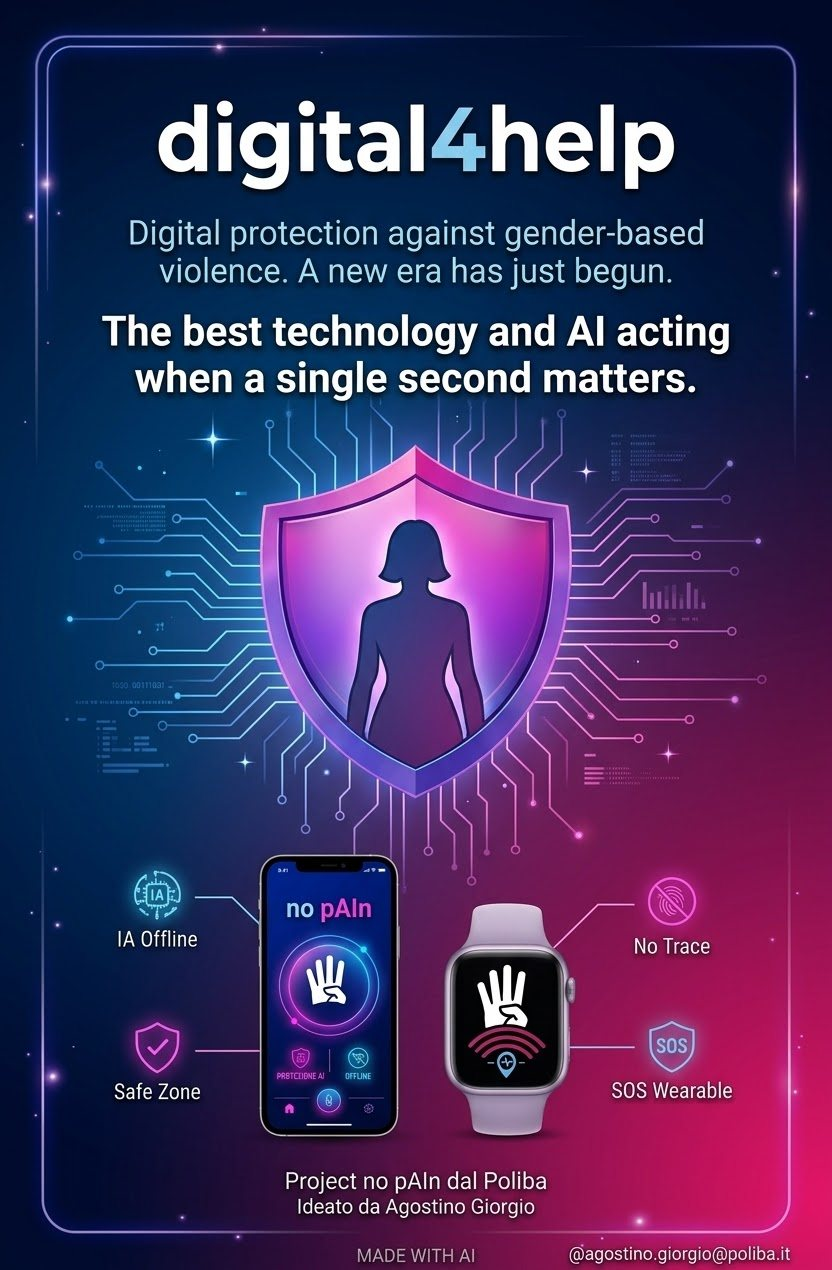
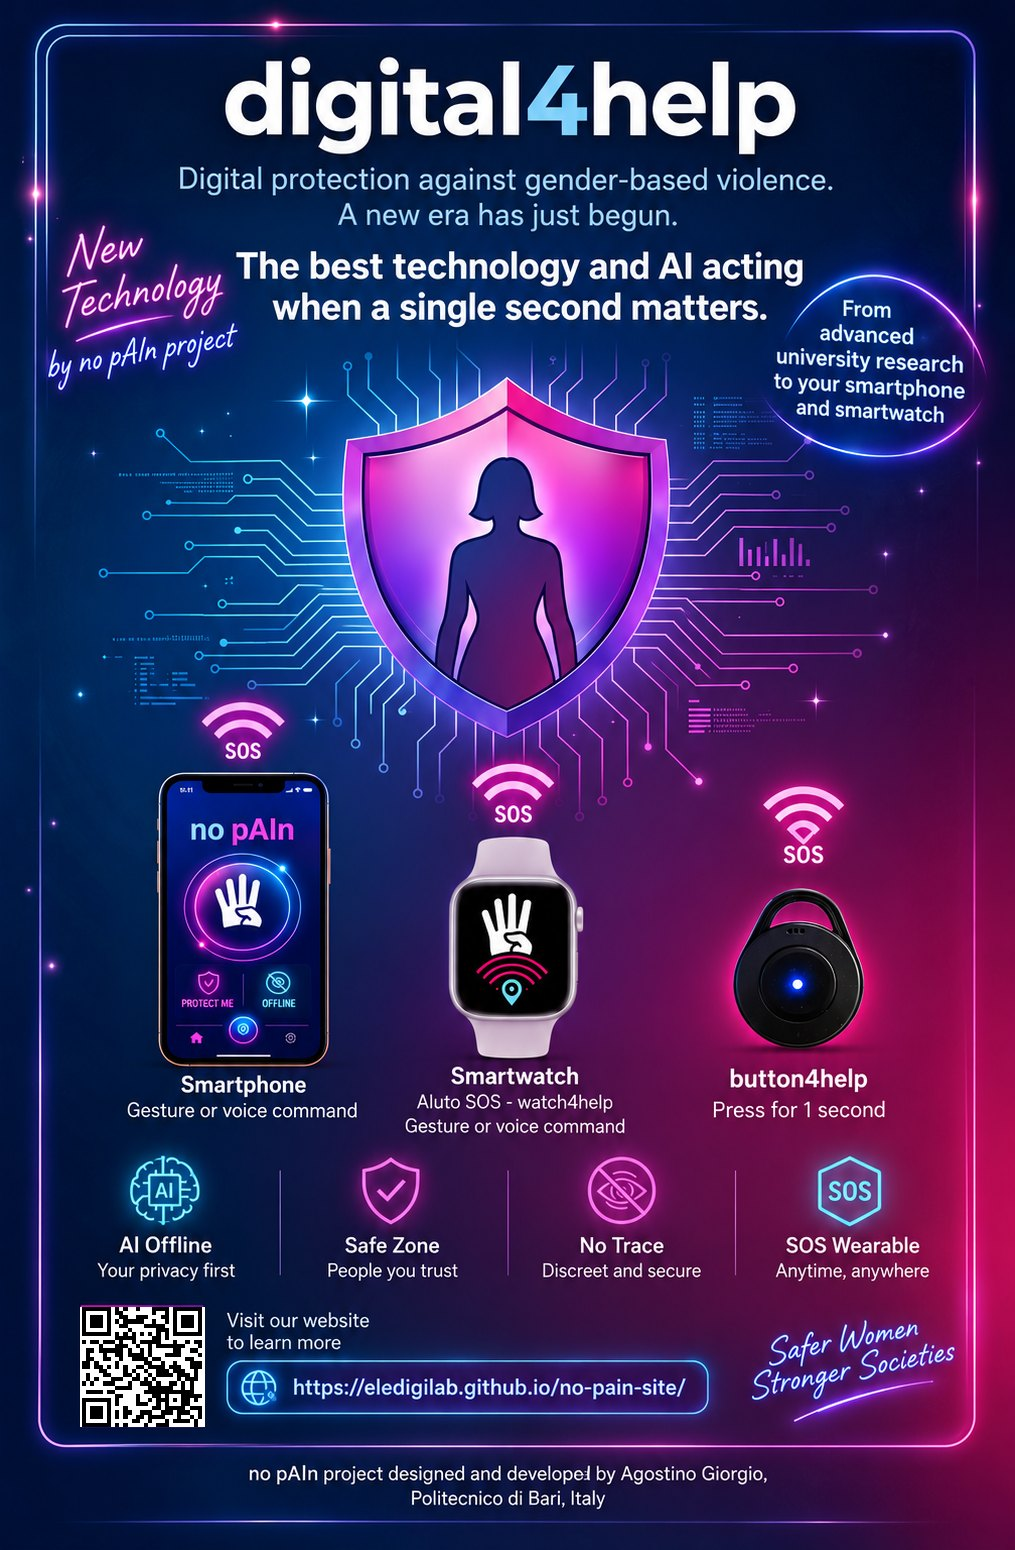
modifica immagini

diff --git a/index.html b/index.html
@@ -30,7 +30,7 @@
 <link rel="preconnect" href="https://fonts.googleapis.com">
 <link rel="preconnect" href="https://fonts.gstatic.com" crossorigin>
 <link rel="stylesheet" href="https://fonts.googleapis.com/css2?family=Atkinson+Hyperlegible:wght@400;700&amp;family=Familjen+Grotesk:wght@500;600;700&amp;family=IBM+Plex+Mono:wght@400;500&amp;display=swap">
-<link rel="stylesheet" href="style.css?v=20260917l">
+<link rel="stylesheet" href="style.css?v=20260918a">
 </head>
 <body>
 
@@ -79,8 +79,8 @@
 <section class="hero">
   <div class="wrap">
     <div class="hero-copy">
-      <h1 class="h1-long">Chiedere aiuto dal tuo dispositivo smartphone o smartwatch senza manovrarli: <span class="hl">si può</span>, con la tecnologia digital4help™ del progetto no pAIn™.</h1>
       <p class="claim"><strong>digital4help™</strong>, la nuova era della tutela digitale: dai laboratori di ricerca universitaria direttamente nei tuoi dispositivi.</p>
+      <h1 class="h1-long">Chiedere aiuto dal tuo dispositivo smartphone o smartwatch senza manovrarli: <span class="hl">si può</span>, con la tecnologia digital4help™ del progetto no pAIn™.</h1>
       <p class="lede">no pAIn™ è un ecosistema di app e dispositivi per la prevenzione della violenza di genere. Con una parola, un tocco o un pulsante, avvisa subito due persone di fiducia con la tua posizione: messaggi e telefonate partono da soli.</p>
       <div class="btns">
         <a class="btn primary" href="prodotti.html">Scegli la tua app <span class="arr">→</span></a>
@@ -90,8 +90,8 @@
       <p class="byline">Progetto ideato e sviluppato dal <strong>Prof. Ing. Agostino Giorgio</strong><br>Docente del Politecnico di Bari</p>
     </div>
     <figure class="media hero-poster">
-      <div class="frame-media"><span class="kind">Locandina</span><a class="zoom" href="assets/locandina-digital4help.jpg"><img src="assets/locandina-digital4help.jpg" width="832" height="1270" alt="Locandina digital4help: Digital protection against gender-based violence. A new era has just begun. Uno scudo con una figura femminile al centro di circuiti luminosi, sopra uno smartphone con l'app no pAIn e uno smartwatch con il segnale della mano per chiedere aiuto; intorno le scritte IA Offline, Safe Zone, No Trace, SOS Wearable."></a></div>
-      <figcaption><strong>digital4help™: Digital protection against gender-based violence</strong>La locandina del progetto, in inglese.</figcaption>
+      <div class="frame-media"><span class="kind">Locandina</span><a class="zoom" href="assets/locandina-digital4help.jpg"><img src="assets/locandina-digital4help.jpg" width="1015" height="1550" alt="Locandina digital4help: protezione digitale contro la violenza di genere, una nuova era è appena cominciata. Uno scudo con una figura femminile al centro di circuiti luminosi e, sotto, i tre modi per chiedere aiuto: smartphone con gesto o comando vocale, smartwatch AIuto SOS watch4help e pulsante button4help premuto per un secondo; in basso IA offline, Safe Zone, No Trace, SOS indossabile e il codice QR del sito."></a></div>
+      <figcaption><strong>digital4help™: la tecnologia che chiede aiuto per te</strong>Smartphone, smartwatch e pulsante: i tre modi per far partire l'allarme. Locandina in inglese.</figcaption>
     </figure>
   </div>
 </section>
@@ -518,6 +518,6 @@
   </div>
 </footer>
 
-<script src="site.js?v=20260917l"></script>
+<script src="site.js?v=20260918a"></script>
 </body>
 </html>

diff --git a/_strumenti/pagine/index.html b/_strumenti/pagine/index.html
@@ -3,8 +3,8 @@
 <section class="hero">
   <div class="wrap">
     <div class="hero-copy">
-      <h1 class="h1-long">Chiedere aiuto dal tuo dispositivo smartphone o smartwatch senza manovrarli: <span class="hl">si può</span>, con la tecnologia digital4help del progetto no pAIn.</h1>
       <p class="claim"><strong>digital4help</strong>, la nuova era della tutela digitale: dai laboratori di ricerca universitaria direttamente nei tuoi dispositivi.</p>
+      <h1 class="h1-long">Chiedere aiuto dal tuo dispositivo smartphone o smartwatch senza manovrarli: <span class="hl">si può</span>, con la tecnologia digital4help del progetto no pAIn.</h1>
       <p class="lede">no pAIn è un ecosistema di app e dispositivi per la prevenzione della violenza di genere. Con una parola, un tocco o un pulsante, avvisa subito due persone di fiducia con la tua posizione: messaggi e telefonate partono da soli.</p>
       <div class="btns">
         <a class="btn primary" href="prodotti.html">Scegli la tua app <span class="arr">→</span></a>
@@ -14,8 +14,8 @@
       <p class="byline">Progetto ideato e sviluppato dal <strong>Prof. Ing. Agostino Giorgio</strong><br>Docente del Politecnico di Bari</p>
     </div>
     <figure class="media hero-poster">
-      <div class="frame-media"><span class="kind">Locandina</span><a class="zoom" href="assets/locandina-digital4help.jpg"><img src="assets/locandina-digital4help.jpg" width="832" height="1270" alt="Locandina digital4help: Digital protection against gender-based violence. A new era has just begun. Uno scudo con una figura femminile al centro di circuiti luminosi, sopra uno smartphone con l'app no pAIn e uno smartwatch con il segnale della mano per chiedere aiuto; intorno le scritte IA Offline, Safe Zone, No Trace, SOS Wearable."></a></div>
-      <figcaption><strong>digital4help: Digital protection against gender-based violence</strong>La locandina del progetto, in inglese.</figcaption>
+      <div class="frame-media"><span class="kind">Locandina</span><a class="zoom" href="assets/locandina-digital4help.jpg"><img src="assets/locandina-digital4help.jpg" width="1015" height="1550" alt="Locandina digital4help: protezione digitale contro la violenza di genere, una nuova era è appena cominciata. Uno scudo con una figura femminile al centro di circuiti luminosi e, sotto, i tre modi per chiedere aiuto: smartphone con gesto o comando vocale, smartwatch AIuto SOS watch4help e pulsante button4help premuto per un secondo; in basso IA offline, Safe Zone, No Trace, SOS indossabile e il codice QR del sito."></a></div>
+      <figcaption><strong>digital4help: la tecnologia che chiede aiuto per te</strong>Smartphone, smartwatch e pulsante: i tre modi per far partire l'allarme. Locandina in inglese.</figcaption>
     </figure>
   </div>
 </section>

diff --git a/lang/el.js b/lang/el.js
@@ -715,6 +715,10 @@
 "9b95d6a5": "Το εγχειρίδιο του Proteggimi για Android είναι ένα PDF στα ιταλικά: ανοίγει στο πρόγραμμα περιήγησης και μπορεί να αποθηκευτεί. Η ενότητα για το Telegram εξηγεί πώς συνδέονται οι επαφές με το bot σε λίγα βήματα. Η διάρκεια της ζωντανής τοποθεσίας αλλάζει από εφαρμογή σε εφαρμογή: δείτε τις επιλογές της εφαρμογής που έχετε εγκαταστήσει.",
 "a21f8077": "Εγχειρίδιο Proteggimi, Android (PDF) <span class=\"arr\">↗</span>",
 "8984e1be": "Telegram: πώς να συνδέσετε τις επαφές σας (PDF) <span class=\"arr\">↗</span>",
-"4c4cb0a1": "Εγχειρίδιο Proteggimi για Android (PDF) ↗"
+"4c4cb0a1": "Εγχειρίδιο Proteggimi για Android (PDF) ↗",
+"0929c4a7": "Αφίσα digital4help: ψηφιακή προστασία από την έμφυλη βία, μια νέα εποχή μόλις ξεκίνησε. Μια ασπίδα με γυναικεία φιγούρα ανάμεσα σε φωτεινά κυκλώματα και, από κάτω, οι τρεις τρόποι να ζητήσετε βοήθεια: smartphone με χειρονομία ή φωνητική εντολή, έξυπνο ρολόι AIuto SOS watch4help και το κουμπί button4help πατημένο για ένα δευτερόλεπτο· στο κάτω μέρος τεχνητή νοημοσύνη εκτός σύνδεσης, Safe Zone, No Trace, φορητό SOS και ο κωδικός QR του ιστότοπου.",
+"a479a4c3": "<strong>digital4help™: η τεχνολογία που ζητά βοήθεια για εσάς</strong>Smartphone, έξυπνο ρολόι και κουμπί: οι τρεις τρόποι να σημάνει ο συναγερμός. Αφίσα στα αγγλικά.",
+"c0cdf624": "Αφίσα digital4help: οι τρεις τρόποι να ζητήσετε βοήθεια, smartphone με χειρονομία ή φωνητική εντολή, έξυπνο ρολόι AIuto SOS watch4help και το κουμπί button4help πατημένο για ένα δευτερόλεπτο· γύρω τους τεχνητή νοημοσύνη εκτός σύνδεσης, Safe Zone, No Trace και φορητό SOS.",
+"b4cd2e50": "Οι τρεις τρόποι να σημάνει ο συναγερμός · αφίσα στα αγγλικά"
 }
 };

diff --git a/lang/fr.js b/lang/fr.js
@@ -715,6 +715,10 @@
 "9b95d6a5": "Le manuel de Proteggimi pour Android est un PDF en italien : il s’ouvre dans le navigateur et peut être enregistré. La section sur Telegram explique comment relier les contacts au bot en quelques étapes. La durée de la position en direct change d’une application à l’autre : vérifiez les options de l’application installée.",
 "a21f8077": "Manuel Proteggimi, Android (PDF) <span class=\"arr\">↗</span>",
 "8984e1be": "Telegram : comment relier vos contacts (PDF) <span class=\"arr\">↗</span>",
-"4c4cb0a1": "Manuel Proteggimi pour Android (PDF) ↗"
+"4c4cb0a1": "Manuel Proteggimi pour Android (PDF) ↗",
+"0929c4a7": "Affiche digital4help : protection numérique contre les violences de genre, une nouvelle ère vient de commencer. Un bouclier avec une silhouette féminine parmi des circuits lumineux et, en dessous, les trois façons de demander de l’aide : smartphone avec un geste ou une commande vocale, montre connectée AIuto SOS watch4help et bouton button4help pressé pendant une seconde ; en bas, IA hors ligne, Safe Zone, No Trace, SOS portable et le code QR du site.",
+"a479a4c3": "<strong>digital4help™ : la technologie qui demande de l’aide à votre place</strong>Smartphone, montre connectée et bouton : les trois façons de déclencher l’alerte. Affiche en anglais.",
+"c0cdf624": "Affiche digital4help : les trois façons de demander de l’aide, smartphone avec un geste ou une commande vocale, montre connectée AIuto SOS watch4help et bouton button4help pressé pendant une seconde ; autour, IA hors ligne, Safe Zone, No Trace et SOS portable.",
+"b4cd2e50": "Les trois façons de déclencher l’alerte · affiche en anglais"
 }
 };

diff --git a/lang/nl.js b/lang/nl.js
@@ -715,6 +715,10 @@
 "9b95d6a5": "De handleiding van Proteggimi voor Android is een pdf in het Italiaans: hij opent in de browser en je kunt hem bewaren. Het deel over Telegram legt uit hoe je de contacten in een paar stappen aan de bot koppelt. De duur van de live locatie verschilt per app: kijk in de opties van de app die je hebt geïnstalleerd.",
 "a21f8077": "Handleiding Proteggimi, Android (pdf) <span class=\"arr\">↗</span>",
 "8984e1be": "Telegram: zo koppel je je contacten (pdf) <span class=\"arr\">↗</span>",
-"4c4cb0a1": "Handleiding Proteggimi voor Android (pdf) ↗"
+"4c4cb0a1": "Handleiding Proteggimi voor Android (pdf) ↗",
+"0929c4a7": "Poster digital4help: digitale bescherming tegen gendergerelateerd geweld, een nieuw tijdperk is net begonnen. Een schild met een vrouwenfiguur tussen oplichtende circuits en daaronder de drie manieren om hulp te vragen: smartphone met een gebaar of een spraakopdracht, smartwatch AIuto SOS watch4help en de knop button4help die één seconde wordt ingedrukt; onderaan offline AI, Safe Zone, No Trace, draagbare SOS en de QR-code van de site.",
+"a479a4c3": "<strong>digital4help™: de techniek die voor jou om hulp vraagt</strong>Smartphone, smartwatch en knop: de drie manieren om het alarm af te laten gaan. Poster in het Engels.",
+"c0cdf624": "Poster digital4help: de drie manieren om hulp te vragen, smartphone met een gebaar of een spraakopdracht, smartwatch AIuto SOS watch4help en de knop button4help die één seconde wordt ingedrukt; eromheen offline AI, Safe Zone, No Trace en draagbare SOS.",
+"b4cd2e50": "De drie manieren om het alarm af te laten gaan · poster in het Engels"
 }
 };

diff --git a/lang/de.js b/lang/de.js
@@ -714,6 +714,10 @@
 "9b95d6a5": "Das Handbuch von Proteggimi für Android ist ein PDF auf Italienisch: Es öffnet sich im Browser und lässt sich speichern. Der Abschnitt zu Telegram erklärt, wie Sie die Kontakte in wenigen Schritten mit dem Bot verbinden. Die Dauer des Live-Standorts ist je nach App verschieden: Prüfen Sie die Optionen der installierten App.",
 "a21f8077": "Handbuch Proteggimi, Android (PDF) <span class=\"arr\">↗</span>",
 "8984e1be": "Telegram: So verbinden Sie Ihre Kontakte (PDF) <span class=\"arr\">↗</span>",
-"4c4cb0a1": "Handbuch Proteggimi für Android (PDF) ↗"
+"4c4cb0a1": "Handbuch Proteggimi für Android (PDF) ↗",
+"0929c4a7": "Plakat digital4help: digitaler Schutz gegen geschlechtsspezifische Gewalt, eine neue Ära hat gerade begonnen. Ein Schild mit einer weiblichen Figur zwischen leuchtenden Schaltkreisen und darunter die drei Wege, um Hilfe zu bitten: Smartphone mit Geste oder Sprachbefehl, Smartwatch AIuto SOS watch4help und der eine Sekunde lang gedrückte Knopf button4help; unten Offline-KI, Safe Zone, No Trace, tragbarer SOS und der QR-Code der Website.",
+"a479a4c3": "<strong>digital4help™: die Technik, die für Sie um Hilfe bittet</strong>Smartphone, Smartwatch und Knopf: die drei Wege, den Alarm auszulösen. Plakat auf Englisch.",
+"c0cdf624": "Plakat digital4help: die drei Wege, um Hilfe zu bitten, Smartphone mit Geste oder Sprachbefehl, Smartwatch AIuto SOS watch4help und der eine Sekunde lang gedrückte Knopf button4help; darum herum Offline-KI, Safe Zone, No Trace und tragbarer SOS.",
+"b4cd2e50": "Die drei Wege, den Alarm auszulösen · Plakat auf Englisch"
 }
 };

diff --git a/lang/es.js b/lang/es.js
@@ -714,6 +714,10 @@
 "9b95d6a5": "El manual de Proteggimi para Android es un PDF en italiano: se abre en el navegador y se puede guardar. La sección sobre Telegram explica cómo conectar los contactos al bot en pocos pasos. La duración de la ubicación en tiempo real cambia de una app a otra: consulta las opciones de la app instalada.",
 "a21f8077": "Manual de Proteggimi, Android (PDF) <span class=\"arr\">↗</span>",
 "8984e1be": "Telegram: cómo conectar tus contactos (PDF) <span class=\"arr\">↗</span>",
-"4c4cb0a1": "Manual de Proteggimi para Android (PDF) ↗"
+"4c4cb0a1": "Manual de Proteggimi para Android (PDF) ↗",
+"0929c4a7": "Cartel digital4help: protección digital contra la violencia de género, una nueva era acaba de empezar. Un escudo con una figura femenina entre circuitos luminosos y, debajo, las tres formas de pedir ayuda: smartphone con un gesto o un comando de voz, reloj inteligente AIuto SOS watch4help y el botón button4help pulsado durante un segundo; abajo, IA sin conexión, Safe Zone, No Trace, SOS portátil y el código QR del sitio.",
+"a479a4c3": "<strong>digital4help™: la tecnología que pide ayuda por ti</strong>Smartphone, reloj inteligente y botón: las tres formas de lanzar la alarma. Cartel en inglés.",
+"c0cdf624": "Cartel digital4help: las tres formas de pedir ayuda, smartphone con un gesto o un comando de voz, reloj inteligente AIuto SOS watch4help y el botón button4help pulsado durante un segundo; alrededor, IA sin conexión, Safe Zone, No Trace y SOS portátil.",
+"b4cd2e50": "Las tres formas de lanzar la alarma · cartel en inglés"
 }
 };

diff --git a/lang/tr.js b/lang/tr.js
@@ -715,6 +715,10 @@
 "9b95d6a5": "Android için Proteggimi kılavuzu İtalyanca bir PDF'tir: tarayıcıda açılır ve kaydedilebilir. Telegram bölümü, kişilerin bota birkaç adımda nasıl bağlanacağını anlatır. Canlı konumun süresi uygulamadan uygulamaya değişir: kurduğunuz uygulamanın seçeneklerine bakın.",
 "a21f8077": "Proteggimi kılavuzu, Android (PDF) <span class=\"arr\">↗</span>",
 "8984e1be": "Telegram: kişilerinizi nasıl bağlarsınız (PDF) <span class=\"arr\">↗</span>",
-"4c4cb0a1": "Android için Proteggimi kılavuzu (PDF) ↗"
+"4c4cb0a1": "Android için Proteggimi kılavuzu (PDF) ↗",
+"0929c4a7": "digital4help afişi: toplumsal cinsiyete dayalı şiddete karşı dijital koruma, yeni bir çağ henüz başladı. Işıklı devreler arasında kadın figürlü bir kalkan ve altında yardım istemenin üç yolu: hareket ya da sesli komutla akıllı telefon, AIuto SOS watch4help akıllı saat ve bir saniye basılan button4help düğmesi; altta çevrim dışı yapay zekâ, Safe Zone, No Trace, giyilebilir SOS ve sitenin QR kodu.",
+"a479a4c3": "<strong>digital4help™: sizin yerinize yardım isteyen teknoloji</strong>Akıllı telefon, akıllı saat ve düğme: alarmı başlatmanın üç yolu. Afiş İngilizce.",
+"c0cdf624": "digital4help afişi: yardım istemenin üç yolu, hareket ya da sesli komutla akıllı telefon, AIuto SOS watch4help akıllı saat ve bir saniye basılan button4help düğmesi; çevresinde çevrim dışı yapay zekâ, Safe Zone, No Trace ve giyilebilir SOS.",
+"b4cd2e50": "Alarmı başlatmanın üç yolu · afiş İngilizce"
 }
 };

diff --git a/lang/ro.js b/lang/ro.js
@@ -714,6 +714,10 @@
 "9b95d6a5": "Manualul aplicației Proteggimi pentru Android este un PDF în italiană: se deschide în browser și poate fi salvat. Secțiunea despre Telegram explică cum se conectează contactele la bot în câțiva pași. Durata locației live diferă de la o aplicație la alta: verifică opțiunile aplicației instalate.",
 "a21f8077": "Manual Proteggimi, Android (PDF) <span class=\"arr\">↗</span>",
 "8984e1be": "Telegram: cum îți conectezi contactele (PDF) <span class=\"arr\">↗</span>",
-"4c4cb0a1": "Manual Proteggimi pentru Android (PDF) ↗"
+"4c4cb0a1": "Manual Proteggimi pentru Android (PDF) ↗",
+"0929c4a7": "Afișul digital4help: protecție digitală împotriva violenței de gen, o nouă eră tocmai a început. Un scut cu o siluetă feminină printre circuite luminoase și, dedesubt, cele trei moduri de a cere ajutor: smartphone cu un gest sau o comandă vocală, ceas inteligent AIuto SOS watch4help și butonul button4help apăsat o secundă; jos, IA offline, Safe Zone, No Trace, SOS purtabil și codul QR al site-ului.",
+"a479a4c3": "<strong>digital4help™: tehnologia care cere ajutor în locul tău</strong>Smartphone, ceas inteligent și buton: cele trei moduri de a porni alarma. Afiș în engleză.",
+"c0cdf624": "Afișul digital4help: cele trei moduri de a cere ajutor, smartphone cu un gest sau o comandă vocală, ceas inteligent AIuto SOS watch4help și butonul button4help apăsat o secundă; în jur, IA offline, Safe Zone, No Trace și SOS purtabil.",
+"b4cd2e50": "Cele trei moduri de a porni alarma · afiș în engleză"
 }
 };

diff --git a/lang/pt.js b/lang/pt.js
@@ -715,6 +715,10 @@
 "9b95d6a5": "O manual do Proteggimi para Android é um PDF em italiano: abre-se no navegador e pode ser guardado. A secção sobre o Telegram explica como ligar os contactos ao bot em poucos passos. A duração da localização em direto muda de aplicação para aplicação: consulte as opções da aplicação instalada.",
 "a21f8077": "Manual do Proteggimi, Android (PDF) <span class=\"arr\">↗</span>",
 "8984e1be": "Telegram: como ligar os seus contactos (PDF) <span class=\"arr\">↗</span>",
-"4c4cb0a1": "Manual do Proteggimi para Android (PDF) ↗"
+"4c4cb0a1": "Manual do Proteggimi para Android (PDF) ↗",
+"0929c4a7": "Cartaz digital4help: proteção digital contra a violência de género, uma nova era acaba de começar. Um escudo com uma figura feminina entre circuitos luminosos e, por baixo, as três formas de pedir ajuda: smartphone com um gesto ou um comando de voz, smartwatch AIuto SOS watch4help e o botão button4help premido durante um segundo; em baixo, IA offline, Safe Zone, No Trace, SOS vestível e o código QR do site.",
+"a479a4c3": "<strong>digital4help™: a tecnologia que pede ajuda por si</strong>Smartphone, smartwatch e botão: as três formas de disparar o alarme. Cartaz em inglês.",
+"c0cdf624": "Cartaz digital4help: as três formas de pedir ajuda, smartphone com um gesto ou um comando de voz, smartwatch AIuto SOS watch4help e o botão button4help premido durante um segundo; à volta, IA offline, Safe Zone, No Trace e SOS vestível.",
+"b4cd2e50": "As três formas de disparar o alarme · cartaz em inglês"
 }
 };

diff --git a/come-funziona.html b/come-funziona.html
@@ -30,7 +30,7 @@
 <link rel="preconnect" href="https://fonts.googleapis.com">
 <link rel="preconnect" href="https://fonts.gstatic.com" crossorigin>
 <link rel="stylesheet" href="https://fonts.googleapis.com/css2?family=Atkinson+Hyperlegible:wght@400;700&amp;family=Familjen+Grotesk:wght@500;600;700&amp;family=IBM+Plex+Mono:wght@400;500&amp;display=swap">
-<link rel="stylesheet" href="style.css?v=20260917l">
+<link rel="stylesheet" href="style.css?v=20260918a">
 </head>
 <body>
 
@@ -75,11 +75,17 @@
 
 <main id="main">
 
-<section class="page-hero">
+<section class="page-hero split">
   <div class="wrap">
+    <div class="copy">
     <span class="eyebrow">Come funziona</span>
     <h1>Scegli come attivare. <span class="hl">Decidi chi avvisare.</span></h1>
     <p class="lede">Il progetto offre diverse modalità di attivazione. Le funzioni disponibili dipendono dall'app, dal dispositivo e dalla configurazione.</p>
+    </div>
+    <figure class="shot poster">
+      <img src="assets/digital4help-quadrata.jpg" width="1254" height="1254" alt="Locandina digital4help: i tre modi per chiedere aiuto, smartphone con gesto o comando vocale, smartwatch AIuto SOS watch4help e pulsante button4help premuto per un secondo; intorno IA offline, Safe Zone, No Trace e SOS indossabile.">
+      <figcaption>I tre modi per far partire l'allarme · locandina in inglese</figcaption>
+    </figure>
   </div>
 </section>
 
@@ -260,6 +266,6 @@
   </div>
 </footer>
 
-<script src="site.js?v=20260917l"></script>
+<script src="site.js?v=20260918a"></script>
 </body>
 </html>

diff --git a/lang/pl.js b/lang/pl.js
@@ -715,6 +715,10 @@
 "9b95d6a5": "Instrukcja aplikacji Proteggimi na Androida to PDF po włosku: otwiera się w przeglądarce i można go zapisać. Część o Telegramie wyjaśnia, jak w kilku krokach połączyć kontakty z botem. Czas trwania lokalizacji na żywo różni się w zależności od aplikacji: sprawdź opcje zainstalowanej aplikacji.",
 "a21f8077": "Instrukcja Proteggimi, Android (PDF) <span class=\"arr\">↗</span>",
 "8984e1be": "Telegram: jak połączyć kontakty (PDF) <span class=\"arr\">↗</span>",
-"4c4cb0a1": "Instrukcja Proteggimi na Androida (PDF) ↗"
+"4c4cb0a1": "Instrukcja Proteggimi na Androida (PDF) ↗",
+"0929c4a7": "Plakat digital4help: cyfrowa ochrona przed przemocą ze względu na płeć, właśnie zaczęła się nowa era. Tarcza z postacią kobiety wśród świecących obwodów, a pod nią trzy sposoby wezwania pomocy: smartfon gestem lub poleceniem głosowym, smartwatch AIuto SOS watch4help i przycisk button4help wciśnięty przez sekundę; na dole AI offline, Safe Zone, No Trace, noszony SOS i kod QR strony.",
+"a479a4c3": "<strong>digital4help™: technologia, która wzywa pomoc za ciebie</strong>Smartfon, smartwatch i przycisk: trzy sposoby uruchomienia alarmu. Plakat po angielsku.",
+"c0cdf624": "Plakat digital4help: trzy sposoby wezwania pomocy, smartfon gestem lub poleceniem głosowym, smartwatch AIuto SOS watch4help i przycisk button4help wciśnięty przez sekundę; wokół AI offline, Safe Zone, No Trace i noszony SOS.",
+"b4cd2e50": "Trzy sposoby uruchomienia alarmu · plakat po angielsku"
 }
 };
